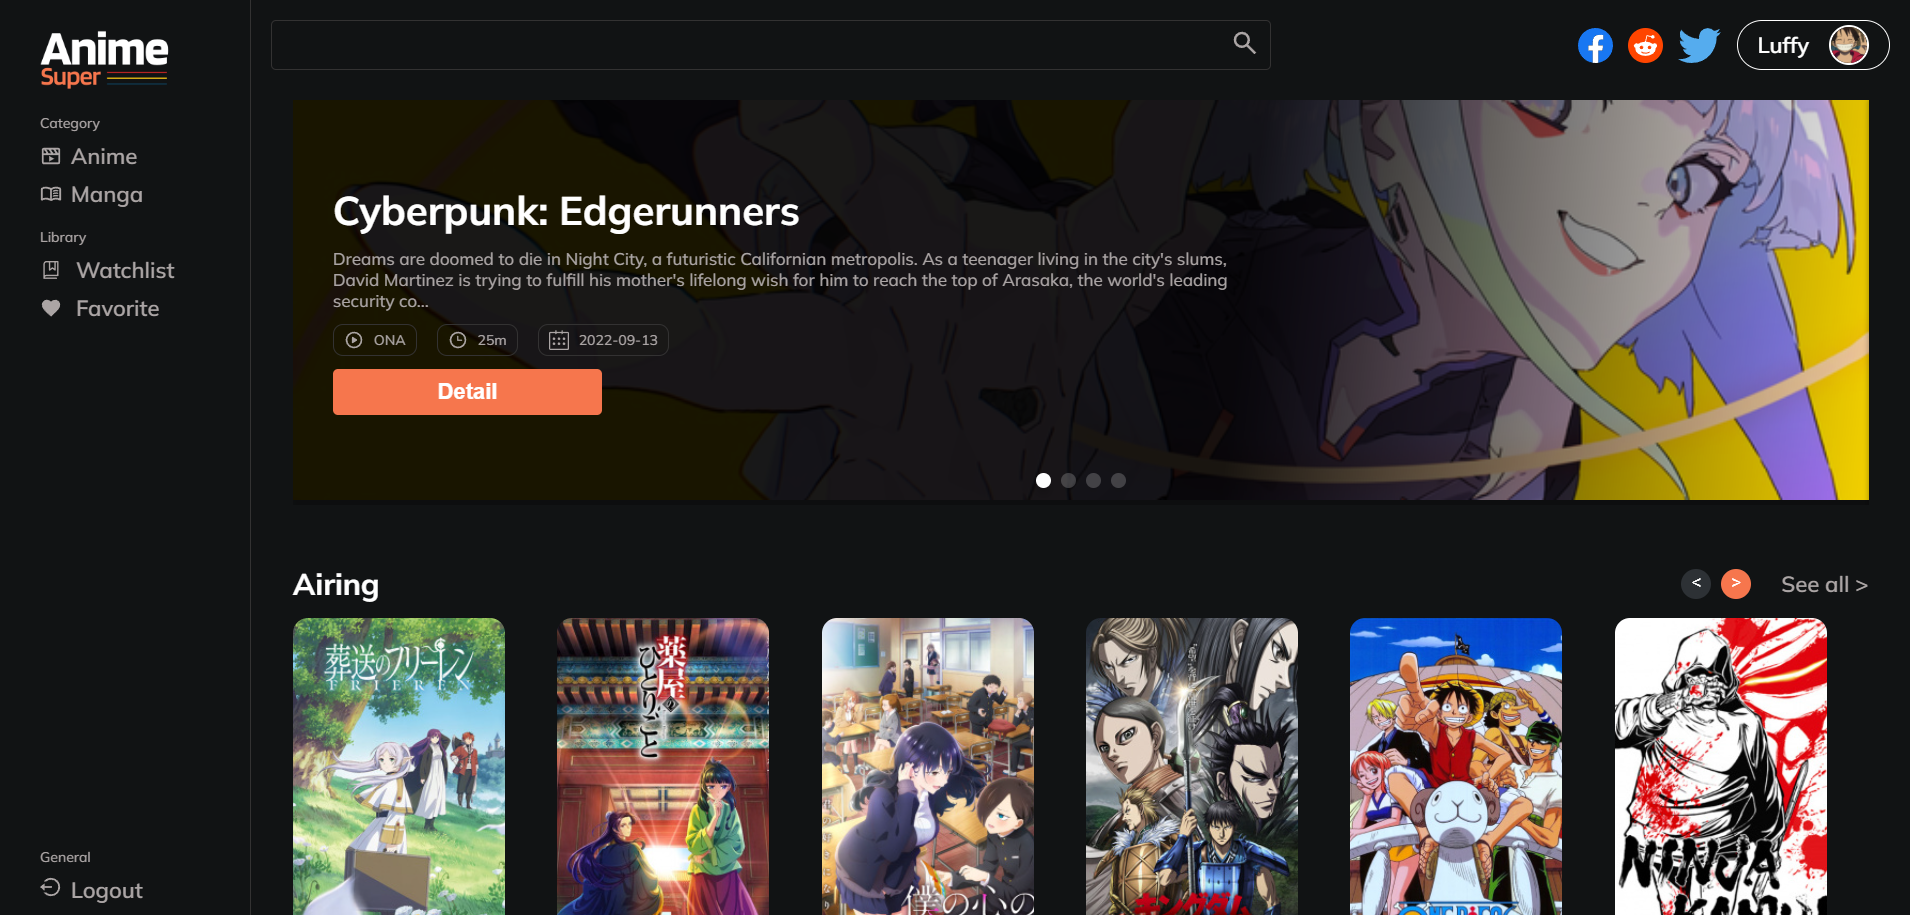
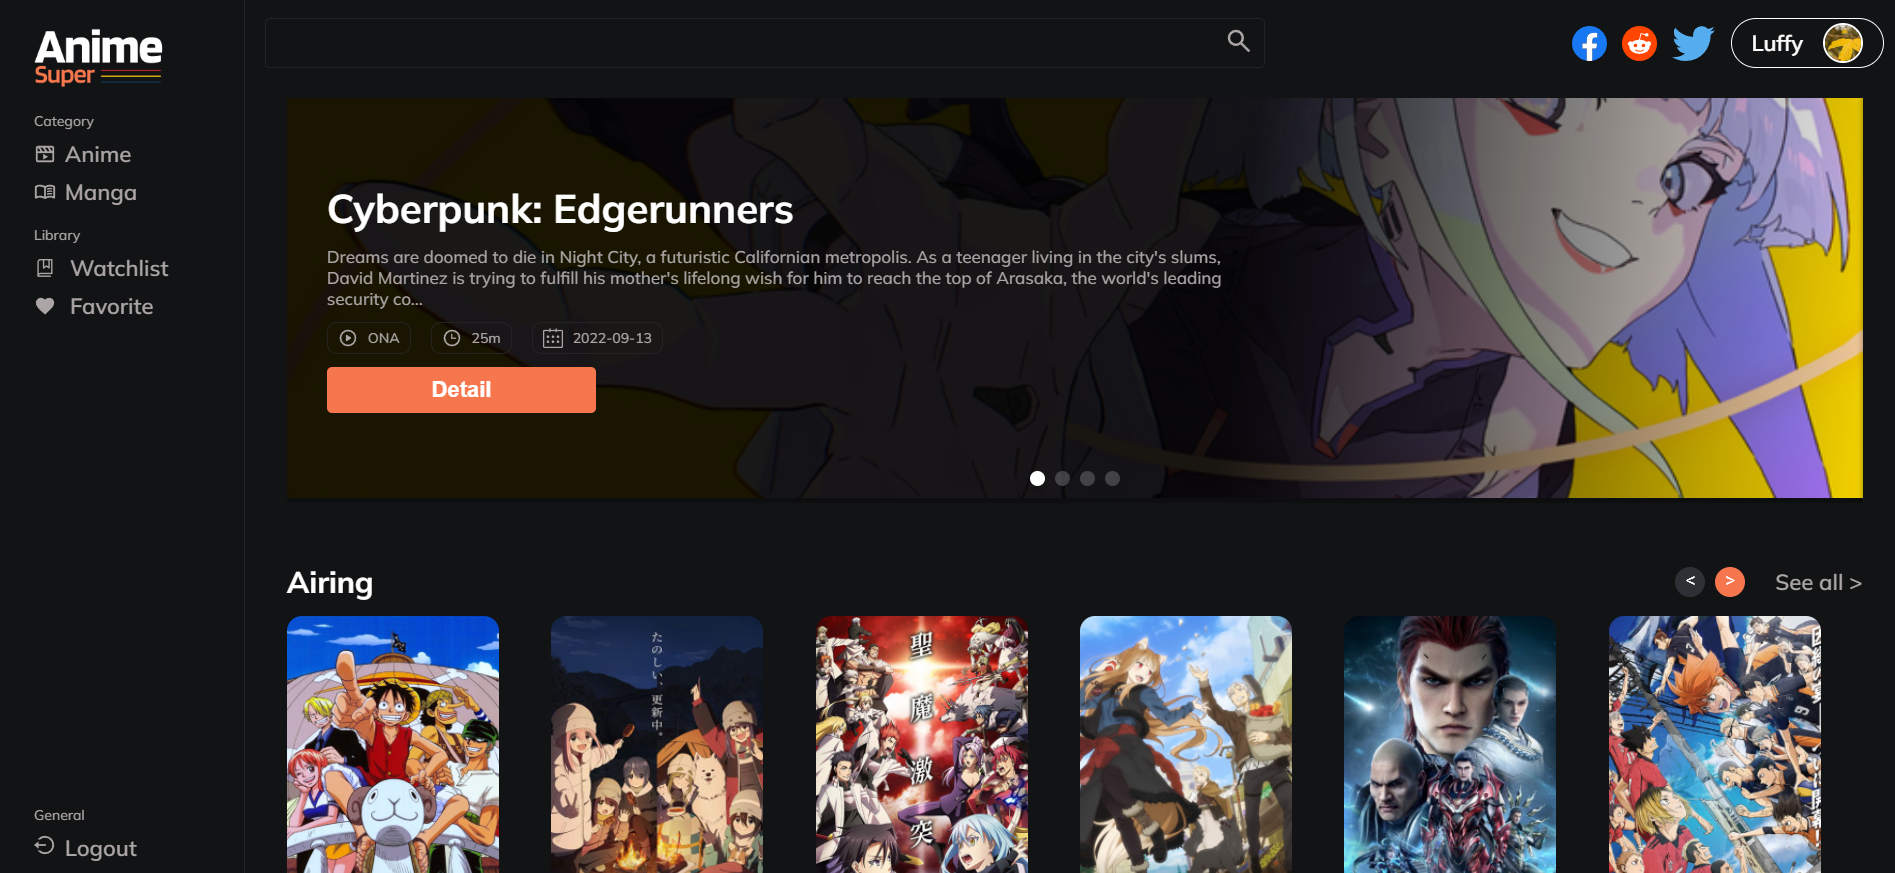
style: about spacing

diff --git a/src/data.js b/src/data.js
@@ -1,4 +1,6 @@
 import AnimeSuper from "./assests/images/projects/AnimeSuper.png";
+import ChitChat from "./assests/images/projects/ChitChat.png";
+
 
 /* Component - Projects  */
 export const myProjects = [
@@ -42,32 +44,32 @@ export const myProjects = [
     reverse: false,
   },
   {
-    title: "Animesuper",
-    imageUrl: AnimeSuper,
-    description: `AnimeSuper is the ultimate destination for anime enthusiasts,
-         providing a seamless platform to organize your favorite anime and manga while keeping you updated 
-         on the latest trends within the vibrant anime community.😊
+    title: "ChitChat",
+    imageUrl: ChitChat,
+    description: `ChitChat: Your vibrant hub for forging connections, fostering friendships, and seamlessly exchanging media through video calls and messages.
         `,
     techUsed: [
       "HTML",
       "CSS",
       "JavaScript",
       "React",
-      "Django",
-      "SQLite",
-      "Figma",
+      "Node.js",
+      "MongoDB",
+      "Simple Peer",
       "Firebase Storage",
       "Redux ToolKit",
+      "Socket.IO",
+      "Express"
     ],
     links: [
       {
         title: "Website",
-        link: "",
+        link: "https://chiitchat.vercel.app/auth/login",
         icon: "mdi:web",
       },
       {
         title: "Github",
-        link: "",
+        link: "https://github.com/prince2520/chitchat",
         icon: "mdi:github",
       },
       {
@@ -77,96 +79,12 @@ export const myProjects = [
       },
       {
         title: "Figma",
-        link: "",
+        link: "https://www.figma.com/file/HVnROhqnB55YlNtuJKuyDy/Anime-Project?type=design&node-id=19%3A112&mode=design&t=gd7zC0TaffN7I7oY-1",
         icon: "solar:figma-bold-duotone",
       },
     ],
     reverse: true,
-  },
-  {
-    title: "Animesuper",
-    imageUrl: AnimeSuper,
-    description: `AnimeSuper is the ultimate destination for anime enthusiasts,
-         providing a seamless platform to organize your favorite anime and manga while keeping you updated 
-         on the latest trends within the vibrant anime community.😊
-        `,
-    techUsed: [
-      "HTML",
-      "CSS",
-      "JavaScript",
-      "React",
-      "Django",
-      "SQLite",
-      "Figma",
-      "Firebase Storage",
-      "Redux ToolKit",
-    ],
-    links: [
-      {
-        title: "Website",
-        link: "",
-        icon: "mdi:web",
-      },
-      {
-        title: "Github",
-        link: "",
-        icon: "mdi:github",
-      },
-      {
-        title: "Youtube",
-        link: "",
-        icon: "mdi:youtube",
-      },
-      {
-        title: "Figma",
-        link: "",
-        icon: "solar:figma-bold-duotone",
-      },
-    ],
-    reverse: false,
-  },
-  {
-    title: "Animesuper",
-    imageUrl: AnimeSuper,
-    description: `AnimeSuper is the ultimate destination for anime enthusiasts,
-         providing a seamless platform to organize your favorite anime and manga while keeping you updated 
-         on the latest trends within the vibrant anime community.😊
-        `,
-    techUsed: [
-      "HTML",
-      "CSS",
-      "JavaScript",
-      "React",
-      "Django",
-      "SQLite",
-      "Figma",
-      "Firebase Storage",
-      "Redux ToolKit",
-    ],
-    links: [
-      {
-        title: "Website",
-        link: "",
-        icon: "mdi:web",
-      },
-      {
-        title: "Github",
-        link: "",
-        icon: "mdi:github",
-      },
-      {
-        title: "Youtube",
-        link: "",
-        icon: "mdi:youtube",
-      },
-      {
-        title: "Figma",
-        link: "",
-        icon: "solar:figma-bold-duotone",
-      },
-    ],
-    reverse: true,
-  },
+  }
 ];
 
 /* Component - Education  */

diff --git a/src/style.css b/src/style.css
@@ -36,37 +36,37 @@ textarea:active
 
 h1{
     font-size:  clamp(2.5rem, 9vw + 0.5rem,3.5rem);
-    font-weight: 1000;
+    font-weight: 900;
 }
 
 h2{
     font-size: clamp(1.78rem, 7vw + 0.5rem,2.5rem);
-    font-weight: 900;
+    font-weight: 800;
 }
 
 h3{
     font-size: clamp(1rem, 7vw + 0.5rem,1.5rem);
-    font-weight: 900;
+    font-weight: 800;
 }
 
 h4 {
     font-size: clamp(1.25rem, 6vw + 0.5rem,1.25rem);
-    font-weight: 700;
-}
-
-h5 {
-    font-size: clamp(0.75rem, 1vw + 0.5rem,1.1rem);
     font-weight: 600;
 }
 
-h6 {
-    font-size:  clamp(0.53rem, 4vw + 0.5rem,0.75rem);
+h5 {
+    font-size: clamp(0.75rem, 1vw + 0.5rem,1rem);
     font-weight: 500;
 }
 
+h6 {
+    font-size:  clamp(0.53rem, 4vw + 0.5rem,0.60rem);
+    font-weight: 400;
+}
+
 p{
-    font-size: clamp(0.6rem, 1vw + 0.5rem,0.85rem);
-    font-weight: 500;
+    font-size: clamp(0.5rem, 1vw + 0.5rem,0.75rem);
+    font-weight: 350;
     margin: 0;
 }
 

diff --git a/src/App.css b/src/App.css
@@ -1,9 +1,4 @@
-@import url('https://fonts.googleapis.com/css2?family=Nunito+Sans:ital,opsz,wght@0,6..12,200;0,6..12,300;0,6..12,400;0,6..12,500;0,6..12,600;0,6..12,700;0,6..12,800;0,6..12,900;0,6..12,1000;1,6..12,200;1,6..12,300;1,6..12,400;1,6..12,500;1,6..12,600;1,6..12,700;1,6..12,800;1,6..12,900;1,6..12,1000&family=Nunito:ital,wght@0,200;0,300;0,400;0,500;0,600;0,700;0,800;0,900;0,1000;1,200;1,300;1,400;1,500;1,600;1,700;1,800;1,900;1,1000&display=swap');
-
-
 .App {
-  text-align: center;
-  font-family: 'Nunito Sans', sans-serif;
   background-color: var(--background);
   transition: all 0.5s ease-out;
 }

diff --git a/tailwind.config.js b/tailwind.config.js
@@ -1,0 +1,14 @@
+/** @type {import('tailwindcss').Config} */
+module.exports = {
+  content: ["./src/**/*.{js,jsx,ts,tsx}"],
+  theme: {
+    screens: {
+      'sm': '640px', // => @media (min-width: 640px) { ... }
+      'md': '768px', // => @media (min-width: 768px) { ... }
+      'lg': '1024px', // => @media (min-width: 1024px) { ... }
+      'xl': '1280px', // => @media (min-width: 1280px) { ... }
+      '2xl': '1536px',// => @media (min-width: 1536px) { ... }
+    }
+  },
+  plugins: [],
+};

diff --git a/src/components/AboutMe/AboutMe.jsx b/src/components/AboutMe/AboutMe.jsx
@@ -11,7 +11,7 @@ const AboutMe = () => {
       <div className="flex-center information">
         <h4>Hello, I'm</h4>
         <h1>PRINCE</h1>
-        <h3 style={{ textWrap: "nowrap" }}>Software Engineer</h3>
+        <h3 style={{ textWrap: "nowrap" }}>Software Developer</h3>
 
         <div className="flex-center download-link">
           <button className="button-design cursor-btn">

diff --git a/src/index.css b/src/index.css
@@ -1,6 +1,13 @@
+@tailwind base;
+@tailwind components;
+@tailwind utilities;
+@import url('https://fonts.googleapis.com/css2?family=Inter:wght@100..900&display=swap');
+
 * {
   box-sizing: border-box;
 }
+
+
 
 :root {
   /*--background: #222831;*/
@@ -38,5 +45,5 @@ body {
   margin: 0;
   width: 100%;
   height: 100%;
-  font-style: normal;
+  font-family: "Inter", sans-serif;
 }

diff --git a/src/pages/Home/Home.css b/src/pages/Home/Home.css
@@ -1,5 +1,6 @@
 .home {
   width: 70%;
+  max-width: 60rem;
   flex-direction: column;
   row-gap: 4rem;
 }

diff --git a/src/components/AboutMe/AboutMe.css b/src/components/AboutMe/AboutMe.css
@@ -1,5 +1,5 @@
 .about-me {
-  width: 80%;
+  width: 95%;
   height: 100%;
 
   margin-bottom: 2rem;
